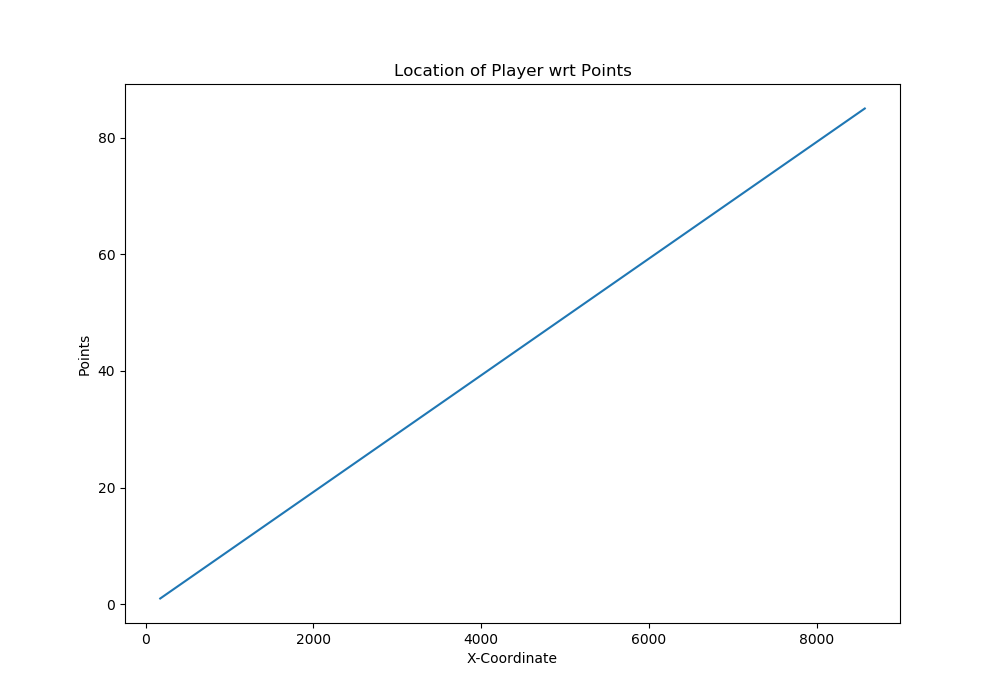
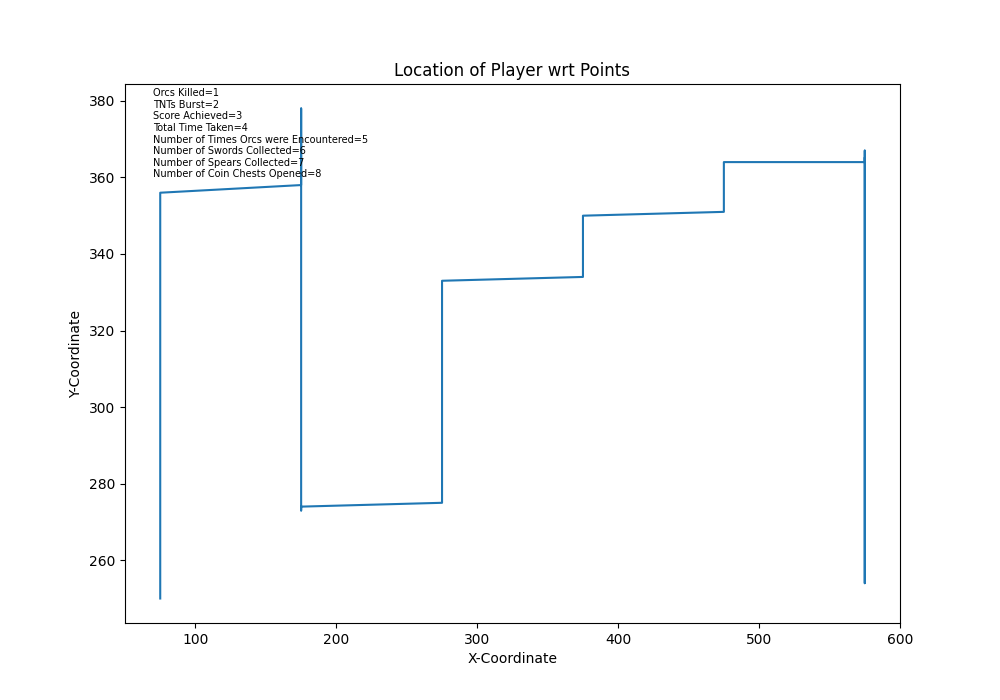
Done

diff --git a/Game/src/main/java/com/example/game/analyzeStats.py b/Game/src/main/java/com/example/game/analyzeStats.py
@@ -2,7 +2,7 @@ import pandas as pd
 from mpl_toolkits import mplot3d
 import numpy as np
 import matplotlib.pyplot as plt
-
+# fig, ax = plt.subplots()
 with open("heroLocations.txt", "r") as f:
     data = f.readlines()
 ls = []
@@ -16,6 +16,7 @@ for i in data:
     else:
         c += 1
         ls.append(i.strip().split(' '))
+lsdata = [1,2,3,4,5,6,7,8]
 lsx = []
 lsy = []
 lsp = []
@@ -41,21 +42,47 @@ plt.ylabel("Y-Coordinate")
 plt.plot(lsx, lsy)
 # plt.ylim([74.5, 75.5])
 # show plot
+textstr = '\n'.join((
+    r'Orcs Killed=%d' % (lsdata[0], ),
+    r'TNTs Burst=%d' % (lsdata[1], ),
+    r'Score Achieved=%d' % (lsdata[2], ),
+    r'Total Time Taken=%d' % (lsdata[3], ),
+    r'Number of Times Orcs were Encountered=%d' % (lsdata[4], ),
+    r'Number of Swords Collected=%d' % (lsdata[5], ),
+    r'Number of Spears Collected=%d' % (lsdata[6], ),
+    r'Number of Coin Chests Opened=%d' % (lsdata[7], ),
+    ))
+# ax.text(0.05, 0.95, textstr, transform=ax.transAxes, fontsize=14,
+#         verticalalignment='top', bbox=props)
+plt.text(0, 0, textstr, fontsize = 10)
 plt.show()
 plt.savefig('location.png')
 
 
- # Creating figure
+#  Creating figure
 fig = plt.figure(figsize = (10, 7))
 # ax = plt.axes(projection ="3d")
 # Creating plot
 # ax.scatter3D(lsx, lsy, lsp, color = "green")
 plt.title("Location of Player wrt Points")
 plt.xlabel("X-Coordinate")
-plt.ylabel("Points")
-plt.plot(lsx, lsp)
+plt.ylabel("Y-Coordinate")
+plt.plot(lsx, lsy)
 # plt.ylim([74.5, 75.5])
 # show plot
+textstr = '\n'.join((
+    r'Orcs Killed=%d' % (lsdata[0], ),
+    r'TNTs Burst=%d' % (lsdata[1], ),
+    r'Score Achieved=%d' % (lsdata[2], ),
+    r'Total Time Taken=%d' % (lsdata[3], ),
+    r'Number of Times Orcs were Encountered=%d' % (lsdata[4], ),
+    r'Number of Swords Collected=%d' % (lsdata[5], ),
+    r'Number of Spears Collected=%d' % (lsdata[6], ),
+    r'Number of Coin Chests Opened=%d' % (lsdata[7], ),
+    ))
+# ax.text(0.05, 0.95, textstr, transform=ax.transAxes, fontsize=14,
+#         verticalalignment='top', bbox=props)
+plt.text(70, 360, textstr, fontsize = 7)
 plt.show()
 plt.savefig('point.png')
 
